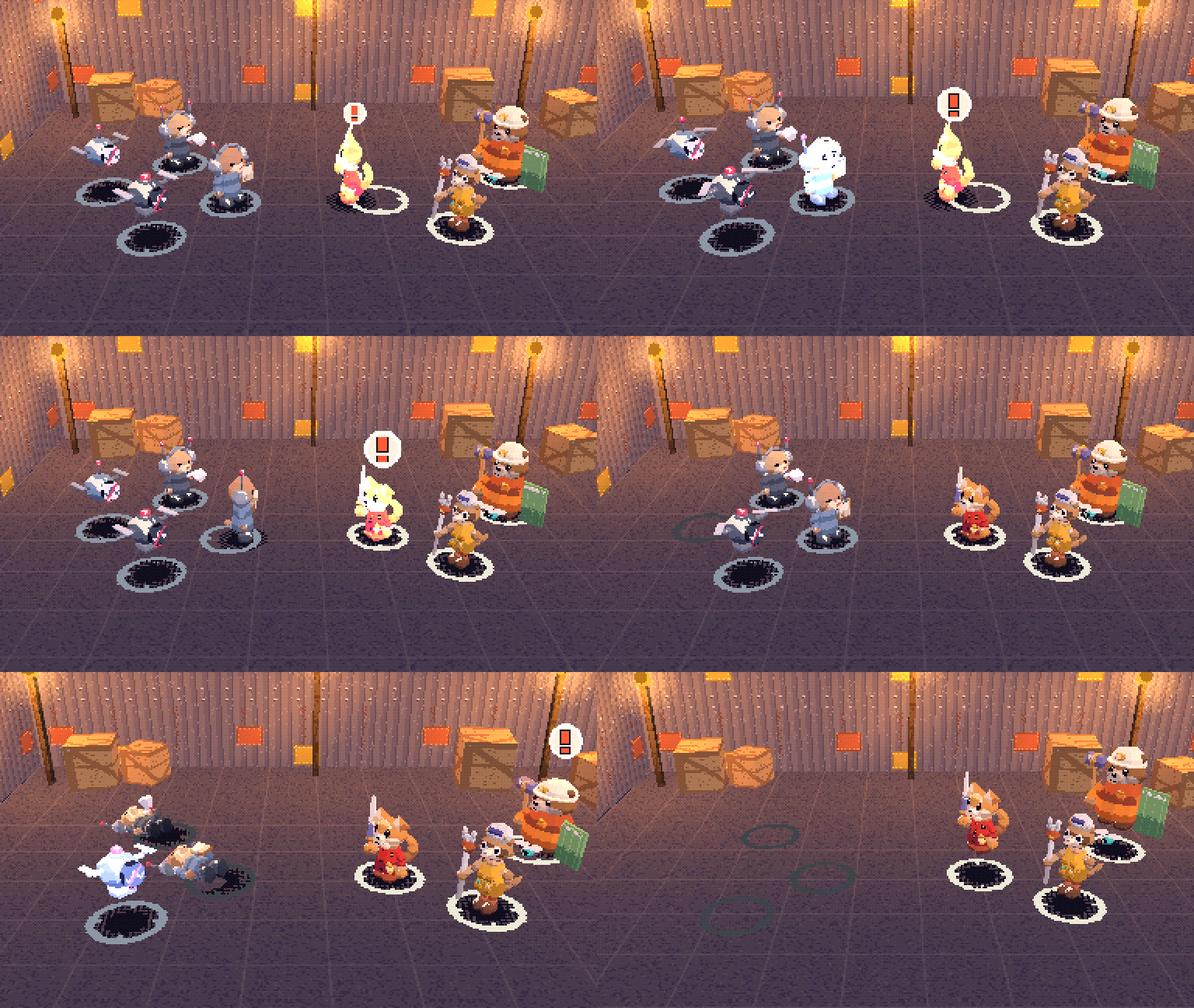
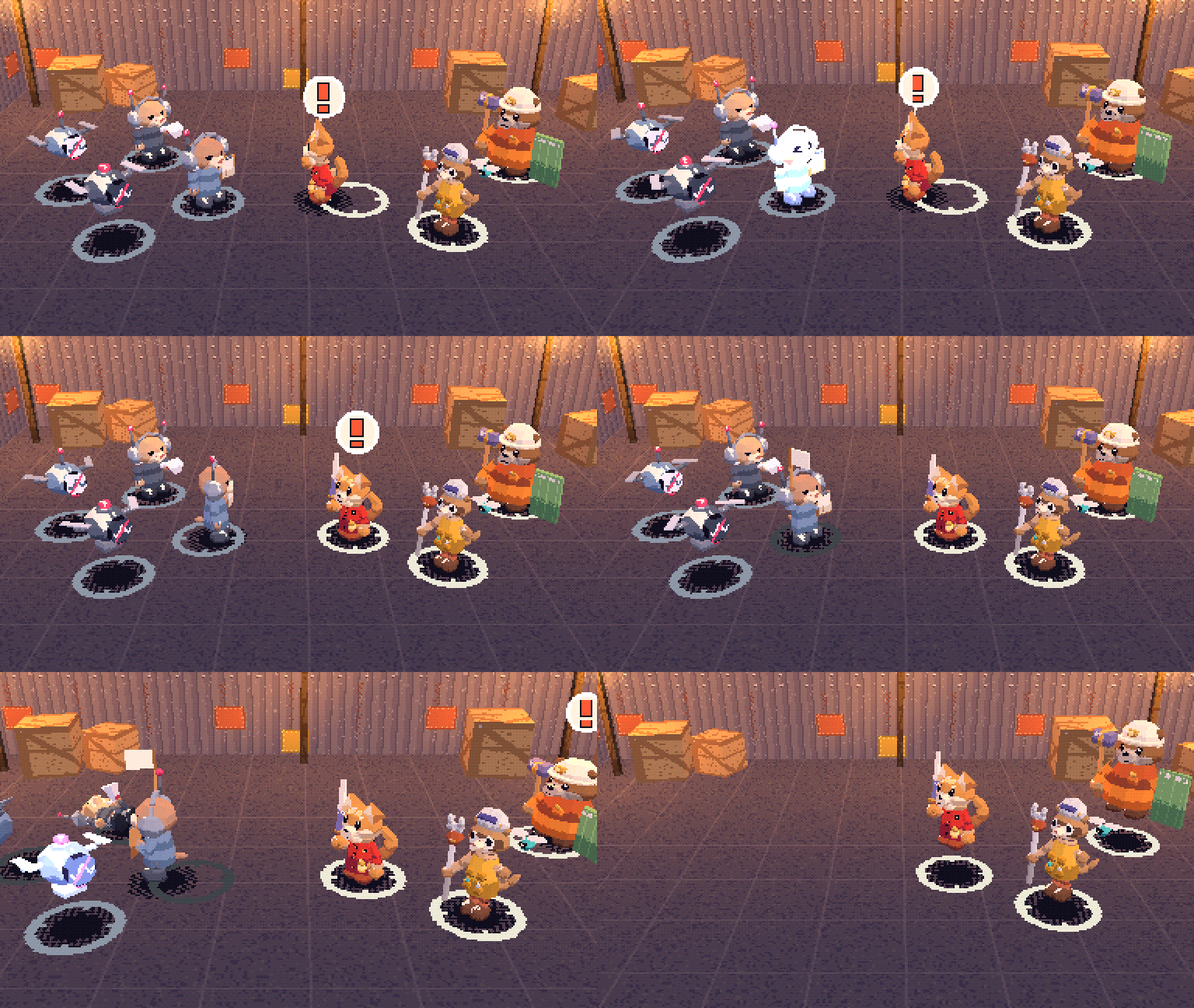
WIP: battle model, simulator report and stage (saved after container restart).
Claude-Session: https://claude.ai/code/session_012jSmZ4BPCmd8jMXHsVXFG6

diff --git a/docs/decisions.md b/docs/decisions.md
@@ -5,6 +5,19 @@
 
 | Date | Decision | Options considered | Why |
 |---|---|---|---|
+| 2026-10-06 | **Battle data and rules: the Clutch numbers.** Windows (half-widths): Nice 125 ms, Rad 80 ms, TOTALLY RAD 50 ms (about 1/4 s and 1/10 s wide); a press only listens 400 ms before its cue; Wide Windows x1.5, Defending-block x1.25. Attack bonus x1.1 / x1.25 / x1.4 for Nice / Rad / TOTALLY RAD; block takes 25% / 50% / 100% less; Payback is 0.8 of a basic hit. A hold-and-release must start by its `hold_by_ms` (a deadline, 400 ms window before it) and is judged on the release; a string cue is judged on its own; the first press in a window is the one judged, so mashing earns nothing. All of it lives in timing_windows.json and formulas.json. | Bonus x1.5 for perfect (the first draft) / x1.4 / x1.3 | x1.4 keeps timing worth chasing without making a never-pressing player feel punished; in the simulator a perfect player finishes fights about 1.7x to 3x faster than one who never presses. |
+| 2026-10-06 | **Juice economy.** A Rad gives +1 Juice, TOTALLY RAD +2 (per press); a good block (Rad or better) gives the defender +1; Defend gives +3. Skills cost 3 to 10. First draft (2/4) let a good player cast the signature move every turn forever, so it was halved. | Rad 2 / TOTALLY RAD 4 (tech plan placeholder) / Rad 1 / TOTALLY RAD 2 | Juice should be a pool you spend and top up, not a faucet; fights now mix skills and plain hits. |
+| 2026-10-06 | **Porch Light's "blind" is Wobbly; Heave-Ho's "stun" is a new one-turn status, `stunned`.** Answers the Technical Director's open question without adding more statuses than the slice list: a blinded enemy swings at a random target (friends included), which is exactly what Wobbly already does. `stunned` skips one turn (the task allowed it). Odds: Porch Light's tap blinds 60% on Nice, 85% Rad, 100% TOTALLY RAD (Luck shifts them); Heave-Ho stuns both enemies on a perfect release. | New Blind status / Wobbly stands in for Blind / drop the bonus | No new mechanic to approve; reads clearly as a lamp flash. |
+| 2026-10-06 | **The nine slice skills (names are mine).** Red: Porch Light (signature, 8 Juice), Double Swing (4, string of 2 taps), Sunrise Slash (6, hold-release, learned level 4). Otis: Heave-Ho (8), Door Slam (3, tap), Cough Drop (4, heals a friend, learned level 4). Mox: Patent Pending (10), Pocket Sparkler (5, hold-release, hits everyone), Duct Tape (4, heal, learned level 4). Each starts with 2 and learns the third at level 4, using only tap / hold-and-release / string. | Other names and press types | Matches the character sheets (Red's swings and flares, Otis's door and hugs, Mox's gadgets) and uses all three press types. |
+| 2026-10-06 | **Patent Pending is a slot wheel with four tiers.** The timing picks the tier (miss, Nice, Rad, TOTALLY RAD) and the model draws a gadget from that tier by weight; TOTALLY RAD has exactly one result, the amazing one (The Mox-O-Matic 9000: hits every enemy and heals the party), so it always lands. Lower tiers: Fizzle, Tuesday Bonks It (miss); Zappy Thing, Sticky Foam (Nice); Heat Lamp Cannon, Mega Magnet, Warm Soup Dispenser (Rad). A miss still does a little damage. | Random wheel with timing as a bias / timing picks the tier | Matches 'TOTALLY RAD always lands the amazing one' and is easy to read and to test. |
+| 2026-10-06 | **Four enemy types.** Signals Grunt (Clipboard Bonk, Noise Ticket), Signals Drone (Static Zap, Twin Zap string, Dive Bomb when hurt), and two variants named for Ross's taste: **Whistle Blower** (grunt variant: Whistle Smack, Ear-Splitting Whistle that makes you Wobbly) and **Buzzkill** (drone variant: fast, Buzz Sting, Pile-On Buzz string of 3). Every attack has a fixed wind-up (the tell, written in skills.json) and a block press. Creative Director to check names. | Other names (Quota Corporal, Spark Plug) | Loud and goofy, short, and they pun on the Signals Corps (noise tickets, whistles). |
+| 2026-10-06 | **White-flag enemies pay out.** A grunt at or under its flee percent (Signals Grunt 25%, Whistle Blower 20%) waves a white flag and leaves on its turn. It still gives its full XP and credits, but no item drop (it took the loot with it). Bosses never flee. No K.O. freeze when the last enemy leaves that way. | No reward for fleers / full reward / reward without drops | Surrender should not punish the player for winning; no drop keeps killing slightly better. |
+| 2026-10-06 | **After a win, a Down fighter stands back up at 10% HP** (data: formulas rewards.after_win_revive_pct; set 0 for the classic stay-down). Down fighters still get full XP. All four statuses clear at the end of a battle. Burnt Toast can't knock anyone out (it stops at 1 HP). | Stay Down until healed (classic) / stand up | Nobody should start the next walk with a friend at 0 HP and no Smelling Salts; one data number flips it. |
+| 2026-10-06 | **Run, Defend and items.** Run chance = 0.55 + 0.04 per point of average party Speed over the enemies' (25% to 95%); a failed Run costs the turn; it is refused outright when can_run is false or the fight is a boss. Smoke Bomb always works but obeys the same rule. Defend halves damage, widens block windows x1.25 and gives +3 Juice until the defender's next turn. Battle-only item effects live in battle/battle_items.json (Ration Bar 30 HP, Can of Chili 70, Canned Coffee 6 Juice, Juice Box 14, Smelling Salts revive at 25%, Burn Gel, Appeal Form, Ginger Chews, Firecracker String, Hot Sauce Bomb, Smoke Bomb); items.json was left alone. | Edit items.json / separate battle file | items.json belongs to the equipment work; ids match so the two merge later. |
+| 2026-10-06 | **Party stats and XP curve for levels 1 to 6** in game/data/party/: Red quick and balanced (HP 40 to 76, Speed 9 to 11), Otis the tank (HP 62 to 115, Speed 4 to 6), Mox the gadget wildcard (Heart 10 to 20, Juice 18 to 33). Total XP to reach levels 2 to 6: 35, 90, 190, 350, 560. Bench XP (full share) and late-joiner catch-up are built and tested but switched off in characters.json. | A slower or faster curve | Tuned with the simulator walkthrough: 14 slice fights end at level 6. |
+| 2026-10-06 | **Enemy numbers and encounters.** Five test encounters: grunt_solo (1), grunt_pair (2), drone_flock (3), squad_four (4) and ambush_no_exit (3, tougher via `enemy_scale`, can_run false). Each has a tier (tutorial, regular, tough) that picks its feel target; an encounter can scale its enemies' stats in data, so a tougher fight needs no new enemy. Enemy credits are set so slice battles pay about 1,000 credits by Kasp; the rest of the 1,500 comes from crates and side jobs. | Separate stronger enemies for tough fights | Fewer enemy types to draw and name; one data field makes any fight harder. |
+| 2026-10-06 | **Feel targets (feel_targets.json).** Fight time = timeline ms plus 2 s per party command. Tutorial fights 25 to 90 s, regular 60 to 180 s, tough 90 to 240 s, boss 300 to 480 s. Win-rate bands per player and tier: perfect >= 97%, good >= 85%, Auto-Timing >= 70%, never-pressing >= 30% on regular fights and >= 80% on tutorial fights. Perfect play must beat never-pressing by at least 10% in wins or fight time. The simulator's 'good' player is a 40 ms spread with an 8% chance to skip a press. | Looser bands | Matches Ross's 'regular fight 1 to 3 minutes' and the design's 'perfect play feels strong'. |
+| 2026-10-06 | **Contract additions (all backward compatible, listed under Changes in docs/battle_api.md):** abort(), get_result(), skill_result signal, setup.bag / bench / first_turn / game_state / data, press and action extras (owner_id, pressed, impacts, scrambled, shown_cue_ms, window_ms), hit.status for status ticks, items[].usable and the one_down_ally target. GameState gained credits (get_credits / add_credits), update_member and a credits / member_state block in to_dict (old saves still load). | Wait for the integrator | Everything was needed to build the model and the writeback; nothing was renamed. |
 | 2026-10-06 | **Battle HUD studio calls (Menus Level 2):** HUD drawn on the 384×216 UI stage like the field menu; command window left, skills/items list opens beside it with a reason line for greyed rows (Noise Ticket > not enough Juice > none left > can't run); menu slides away during moves and targeting; targeting hops to the nearest fighter in the pressed direction, allies offered only for ally moves; cursor memory per fighter for the whole fight; turn-order row top centre (placeholder initials heads), party panel along the bottom; rating letters in style-guide colours (TOTALLY RAD! cycles and bounces), miss shows nothing, Payback! pops over the enemy; K.O.! once per fight with a white flash; victory screen counts XP, credits, drops, then level-up cards, first press skips, presses in the first 0.4 s ignored; Game Over in chalk with Retry (stub) / Back to title; Config gains Wide Windows (on/off) and Timing Offset (−200 to +200 ms in steps of 10). | Studio's calls (UI Programmer) | Ross can overturn any. |
 | 2026-10-06 | **Studio call (Level 1): the Clutch button** is its own input action `clutch` = Space, Z, E, Enter / controller A (the south button, like the classic timed-hit games). Menus keep confirm/cancel. Battle work split across Battle Programmer (model + simulator), Technical Artist (stage + enemy blockouts), UI Programmer (HUD) and Audio Designer (placeholder SFX) under a shared contract, docs/battle_api.md. | Studio's call | Ross can overturn. |
 | 2026-10-06 | **Art stays in-house for now (A).** Claude Code keeps making placeholder/blockout art; Ross makes the final art (CLAUDE.md rule unchanged). The fal.ai/Higgsfield AI pipeline is shelved, not rejected; it can be revisited later. **And: build the battle system; no questions to Ross until there's a Godot build he can run.** The studio makes and logs its own calls until then. | **A in-house** / B hybrid AI via fal.ai (studio recommended) / C human outsourcing | Ross: "keep the art in house for now / build out the battle system, dont ask me again until you have a godot project file for me to execute" |

diff --git a/docs/battle_api.md b/docs/battle_api.md
@@ -112,3 +112,50 @@ Timing rule: the model judges presses only from `press_down`/`press_up` timestam
 **Config (new settings the model already reads).** `Config` now holds `auto_timing`, `wide_windows` and `timing_offset_ms` (clamped to the range in `battle_ui.json` "settings": -200..200 in steps of 10). `Config.get_battle_timing()` returns `{auto_timing, wide_windows, timing_offset_ms}` for a `BattleSetup`. The field menu's Config page has rows for all three. Old settings files without the new keys load fine.
 
 **Input.** While the command menu is open the HUD consumes `move_*`, `confirm` and `cancel` (and the mouse: hover moves, left click picks, right click backs out). While the victory screen is up, confirm, cancel, `clutch` or a left click skip the counting (first press) and then leave (second press); presses in the first 0.4 s are ignored so the Clutch press that landed the last hit cannot skip it. At any other time the HUD does not touch input, so Clutch always reaches the stage.
+
+## Changes
+> Added by the Battle Programmer (M2). Everything below only **adds** to the contract above; nothing was renamed or removed. Code: `game/scripts/battle/model/`, data: `game/data/battle/` and `game/data/party/`.
+
+### Using the model (for the stage, HUD and integrator)
+- Build a setup, create the controller, connect the signals, then call `start()`:
+  ```gdscript
+  var setup: BattleSetup = BattleSetup.from_game_state(GameState, "squad_four", Config, first_turn)  # first_turn: "normal" / "party" / "enemies"
+  var controller: BattleController = BattleController.create(setup)
+  # connect signals, then:
+  controller.start()   # a coroutine: it returns control to the engine while it waits on the real clock
+  ```
+- **Press timestamps use `Time.get_ticks_usec()`** (the same clock as `RealClock`). The view calls `controller.press_down(Time.get_ticks_usec())` in `_input` on the `clutch` action's press, and `press_up(...)` on its release. `t_usec` is the time the event happened, not when the signal is handled; the judge only reads these stamps.
+- The model emits `press_judged` as soon as the answer is known (at the press, or at the end of the window for a miss), so the pop-up lands with the press.
+- If `setup.game_state` is set, a win or an escape writes level, xp, hp, juice, bag items and credits into it before `battle_ended` fires. A loss writes nothing (Retry restores the snapshot taken before the fight).
+- `controller.get_result()` after the end returns `{result, report, party: [member states], bench, bag, items_used, rounds, party_commands, elapsed_usec}`.
+
+### Setup (`BattleSetup`)
+- Added fields: `bag: Dictionary` (item id -> count), `bench: Array[Dictionary]`, `first_turn: String` ("normal" / "party" / "enemies"; round 1 only), `game_state: Node` (optional write-back), `data: BattleData` (defaults to `BattleData.shared()`).
+- `BattleSetup.from_game_state(state, encounter_id, config = null, first_turn = "normal")` fills everything from the `GameState` autoload: real clock, human presses, a random seed (`rng_seed = BattleSetup.RANDOM_SEED = -1`). It reads `auto_timing`, `wide_windows` and `timing_offset_ms` from the `Config` object you pass (missing properties count as off / 0).
+- `command_source` is any object with `choose_command(controller, actor_id, options) -> Dictionary`.
+- Party member dictionaries: `{id, level, xp?, hp?, juice?, statuses?, bonus?}`. A missing hp or juice means full. The party's maximums come from `data/party/growth.csv` at that level, not from `party.json`.
+
+### Controller
+- `abort()`: stops the fight where it is (quit to title). No `battle_ended`, no rewards; `result` becomes `"aborted"`.
+- `get_result()` as above. Public read-only fields: `state` (`BattleState`), `result`, `report`, `round_number`, `is_over`, `party_commands`.
+- `skip_requested()` is implemented: end-of-action pauses shrink to zero (press windows never do).
+- `submit_command` with nothing pending is ignored. An invalid command gets a `message` ("Not enough Juice!", "Noise Ticket! No skills.", "Can't run from this one!", "Pick a target.", "None left.") and `command_needed` fires again for the same fighter.
+
+### Signals and payloads
+- **New signal `skill_result(info)`**: `{actor, skill_id, tier, result_id, name}` when Patent Pending's wheel lands (also announced with `message("<name>!")`).
+- **`press_judged`** also carries `owner_id` (who gets the pop-up and the "!": the attacker for attack presses, **the defender for block presses**) and `pressed: bool` (false = nothing was pressed in the window). `actor` is the fighter whose action it is, the same as in `action_started`. `delta_ms` is signed (negative = early) and 0.0 when nothing was pressed.
+- **`action_started`** extras: `tell` (text), `contact` ("melee"/"ranged"); `timeline_ms.impacts: [ms, ...]` (every effect moment; `impact` is the first); each press entry gets `window_ms: {nice, rad, totally_rad}` (half-widths after modifiers), `scrambled: bool` and, when scrambled, `shown_cue_ms` (the view flashes at `shown_cue_ms`; the judge always uses the real `cue_ms`).
+- **Press semantics.** `cue_ms` and `hold_by_ms` are milliseconds from `t0_usec`. `hold_by_ms` is the **latest moment the button may go down** for a hold-and-release; the hold window opens 400 ms before it and the release is judged against `cue_ms`. A press only counts inside its window (400 ms before the cue to the end of the Nice window); the first press in that window is the one judged. The view should show the "hold now" prompt a little before `hold_by_ms`. Taps in a `string` are separate presses with their own `index`. Disabled presses (a block press with no party member to press it, e.g. an enemy hitting an enemy) are left out of `presses`.
+- **`hit`**: damage over time from statuses sends `source: ""` and `status: "<status id>"`. A Payback is its own `hit` with `payback: true` (source = the defender, target = the attacker); the blocked hit before it has `blocked: "perfect"`. A heal is `kind: "heal"` (only the HP actually restored).
+- **`command_needed` options**: each `items` entry also has `usable: bool`; item `target` values are `one_ally`, `one_down_ally` (revives), `one_enemy`, `all_enemies`, `self`. Skill `target` values: `one_enemy`, `all_enemies`, `one_ally`, `all_allies`, `self`. The `skills` list holds every skill the fighter knows (usable or not).
+- **`snapshot()`** adds `music` and `round` at the top level, and `fled` and `defending` on each combatant. Enemy ids are `e1` to `e4` in encounter order; party ids are the character ids.
+- **`battle_ended` report**: `level_ups` covers every fighter who climbed; `final_ko_target` is `""` when the last enemy surrendered (white flag) or on a run. Enemies that wave a white flag leave with `combatant_fled(id)` after a `message("<name> waves a white flag and leaves!")`; they still give XP and credits.
+- Statuses end when the battle does; a Down fighter stands back up with 10% HP after a win (`formulas.json` `rewards.after_win_revive_pct`).
+
+### Data the stage and HUD can read
+- `data/battle/encounters.json` ids: `grunt_solo`, `grunt_pair`, `drone_flock`, `squad_four`, `ambush_no_exit` (can_run false). Backdrop ids in use: `harrow_docks`, `relay_tower_floor`. Music ids: `battle_regular`, `battle_tough` (placeholders).
+- Enemy model paths are `res://art/placeholder/enemies/<enemy id>.glb` (`signals_grunt`, `signals_drone`, `whistle_blower`, `buzzkill_drone`); party models are the existing placeholder `.glb` files.
+- Skill, item and status names and descriptions: `data/battle/skills.json`, `battle_items.json`, `statuses.json`.
+
+### Shared files touched
+- `GameState` (shared, additive): `get_credits()`, `add_credits(n)`, `update_member(id, fields)`; `to_dict()` also writes `credits` and `member_state` (older saves without them still load).

diff --git a/docs/battle_sim_report.md b/docs/battle_sim_report.md
@@ -1,0 +1,74 @@
+# Battle simulator report (first tuning pass)
+
+> Battle Programmer, Milestone 2 (M2-9). The simulator plays the real battle model (the same `BattleController` the game uses) on a virtual clock with no view, as four kinds of player, thousands of times. Numbers below are the full **5,000 fights per encounter and player** (seed 1; fight *i* uses seed 1+*i*, so any row can be replayed). The suite itself runs 200 per check.
+
+## How to run it
+```
+godot --headless --path game -s res://tests/sim/run_sim.gd -- --encounter=squad_four --player=good --runs=1000 --seed=1
+godot --headless --path game -s res://tests/sim/run_sim.gd -- --runs=200 --check --walkthrough
+```
+Options: `--encounter=ID|all`, `--player=perfect|good|miss|auto|all`, `--runs=N`, `--seed=N`, `--level=N` (default: each encounter's `suggested_level`), `--walkthrough`, `--check` (exit code 1 when anything misses `feel_targets.json`), `--markdown`. The full 5,000-run table takes about 10 minutes; 200 runs about 20 seconds.
+
+## The players
+| Player | What it does |
+|---|---|
+| **perfect** | Presses exactly on every cue (attack and block, taps, holds, strings). |
+| **good** | Presses with a normal spread of 40 ms around each cue, and skips 8% of presses (a lapse of attention). |
+| **miss** | Never presses. Normal hit, normal hurt. |
+| **auto** | Auto-Timing: every press lands as Rad. |
+
+All four use the same command policy (from the tech plan): attack the weakest enemy, heal anyone under 40% HP (Can of Chili if 60+ HP is missing, else Ration Bar, else a heal skill), revive a Down friend with Smelling Salts, and use the signature move whenever Juice allows. Start kit: 4 Ration Bars, 1 Can of Chili, 2 Canned Coffee, 1 Smelling Salts, 1 Burn Gel. **Fight time = virtual-clock timeline ms + 2 s of menu time per party command.**
+
+## Results (5,000 runs each)
+| Encounter | Level | Player | Win rate | Mean s | p10 s | p50 s | p90 s | Rounds | HP left (wins) | XP | Credits |
+|---|---|---|---|---|---|---|---|---|---|---|---|
+| grunt_solo | 1 | perfect | 100.0% | 34 | 34 | 34 | 34 | 3.0 | 100% | 14 | 21 |
+| grunt_solo | 1 | good | 100.0% | 37 | 34 | 34 | 45 | 3.3 | 99% | 14 | 21 |
+| grunt_solo | 1 | auto | 100.0% | 47 | 45 | 46 | 57 | 4.1 | 92% | 14 | 21 |
+| grunt_solo | 1 | miss | 100.0% | 59 | 55 | 55 | 66 | 5.3 | 79% | 14 | 21 |
+| grunt_pair | 2 | perfect | 100.0% | 48 | 44 | 48 | 50 | 4.0 | 100% | 28 | 42 |
+| grunt_pair | 2 | good | 100.0% | 57 | 48 | 60 | 63 | 4.7 | 98% | 28 | 42 |
+| grunt_pair | 2 | auto | 100.0% | 79 | 73 | 74 | 88 | 6.4 | 84% | 28 | 42 |
+| grunt_pair | 2 | miss | 100.0% | 112 | 106 | 108 | 119 | 9.4 | 70% | 28 | 42 |
+| drone_flock | 3 | perfect | 100.0% | 66 | 64 | 66 | 67 | 5.0 | 100% | 50 | 76 |
+| drone_flock | 3 | good | 100.0% | 77 | 65 | 77 | 89 | 6.0 | 96% | 50 | 76 |
+| drone_flock | 3 | auto | 100.0% | 117 | 102 | 115 | 132 | 9.1 | 74% | 50 | 76 |
+| drone_flock | 3 | miss | 94.0% | 178 | 168 | 175 | 190 | 14.9 | 42% | 50 | 76 |
+| squad_four | 4 | perfect | 100.0% | 74 | 69 | 74 | 78 | 5.1 | 100% | 66 | 98 |
+| squad_four | 4 | good | 100.0% | 87 | 74 | 86 | 103 | 6.1 | 96% | 66 | 98 |
+| squad_four | 4 | auto | 100.0% | 146 | 130 | 145 | 159 | 10.2 | 75% | 66 | 98 |
+| squad_four | 4 | miss | 54.1% | 216 | 176 | 227 | 240 | 17.4 | 24% | 66 | 98 |
+| ambush_no_exit | 4 | perfect | 100.0% | 92 | 87 | 93 | 95 | 6.9 | 100% | 68 | 98 |
+| ambush_no_exit | 4 | good | 100.0% | 112 | 95 | 110 | 130 | 8.4 | 94% | 68 | 98 |
+| ambush_no_exit | 4 | auto | 100.0% | 190 | 161 | 188 | 218 | 14.3 | 72% | 68 | 98 |
+| ambush_no_exit | 4 | miss | 0.0% | 93 | 71 | 94 | 112 | 7.3 | 0% | 0 | 0 |
+
+(The miss row of the last fight shows how long the party lasts before game over.) Encounters: `grunt_solo` 1 Signals Grunt; `grunt_pair` 2 grunts; `drone_flock` 2 Signals Drones + Whistle Blower; `squad_four` 2 grunts + Signals Drone + Buzzkill (4 enemies, enemy HP x1.2); `ambush_no_exit` 2 Whistle Blowers + Buzzkill, enemy HP x1.3 and attack x1.5, **can't run**.
+
+### Walkthrough (the 14 slice fights in order, party healed and bag restocked between fights, 100 runs each)
+| Player | Finished | Final level | Credits from battles | Fights fought (mean) |
+|---|---|---|---|---|
+| perfect | 100% | 6.0 | 1,017 | 14.0 |
+| good | 100% | 6.0 | 1,017 | 14.0 |
+| auto | 100% | 6.0 | 1,017 | 14.0 |
+| miss | 0% | n/a | n/a | 8.2 (loses around the first Full Signals Squad, fight 7 to 9) |
+
+## Against the feel targets (`data/battle/feel_targets.json`)
+`--check` passes: **every row is inside its bands.**
+- **Fight length.** Regular fights 60 to 180 s: good play lands 77 to 87 s, Auto-Timing 117 to 146 s, perfect 66 to 74 s. Tutorial fights (25 to 90 s): 34 to 79 s. The tough ambush (90 to 240 s): 92 s perfect, 112 s good, 190 s Auto-Timing. Never-pressing runs longer (up to about 3.5 min on the squad fight), which is allowed.
+- **Win rates.** Perfect 100% everywhere (needs 97%+ regular, 90%+ tough). Good 100% (needs 85%+, 80%+). Auto-Timing 100% (needs 70%+, 50%+). The miss player wins the easy fights (100%; needs 80%+), wins 94% of the drone flock and 54% of the squad fight (needs 30%+ for regular fights) and cannot beat the ambush (needs 60% or less).
+- **Perfect play feels strong.** Against never pressing, perfect play finishes fights 1.7x to 2.9x faster and finishes with far more HP; the check wants at least 10% on wins or time.
+- **Slice progress.** The 14-fight walkthrough ends at level 6 (the target at Kasp) with about 1,017 credits from battles; the rest of the 1,500 is crates and side jobs (Economy section).
+
+## What I tuned, and why
+1. **Enemy HP.** The first draft killed a Signals Squad in 2 rounds (25 s). Enemy HP is now about 2.4x the first draft (grunt 46 -> 112): a basic hit is roughly a tenth of a grunt, so fights need several rounds.
+2. **Rating bonus** x1.5 -> x1.4 for TOTALLY RAD (Nice x1.1, Rad x1.25) and **Juice refund** halved (Rad +1, TOTALLY RAD +2). With the draft values a good player cast their signature every turn.
+3. **Enemy damage** up about 40% since the first draft (grunt attack 9 -> 13) so never-pressing is a real handicap; the ambush gets a per-encounter `enemy_scale` (HP x1.3, attack x1.5) instead of new enemy types.
+4. **XP and credits.** XP curve 0 / 35 / 90 / 190 / 350 / 560 puts level 6 at fight 13 of 14; enemy credits cut about 30% so battles pay about 1,000 of the 1,500.
+5. The **good** player got an 8% lapse chance: with a pure 40 ms spread nobody ever lost a fight.
+
+## Things to know, and open questions (none block the build)
+- **Skilled players take almost no damage** (94 to 99% HP left). A Perfect Block takes it all by design, so fights are won on length, not danger. If Ross wants good play to feel riskier, the knobs are `block_reduction` in timing_windows.json and enemy `attack` in enemies.json; a "casual" player (70 to 80 ms spread) would be the next simulator player to add.
+- **The never-pressing player can't finish the slice** with this simple policy (it dies around fight 8 with no Defend and no shopping). Real players who skip Clutch will do better (Defend halves damage and widens windows), but if the slice should be finishable without pressing, soften enemy `attack` by about 15% or add a heal item to the start kit.
+- **The XP curve and enemy lists are test content.** Real placements come with Milestone 3 (the walkthrough order lives in feel_targets.json and is easy to change). Kasp needs his own tier ("boss": 300 to 480 s is already in the targets) and the cue-scramble pulse; the model already supports a scrambled cue (`shown_cue_ms`) and boss flags.
+- Fight time counts 2 s of menu per command as agreed; the HUD's real menu time will move these numbers (about +-20%).

diff --git a/docs/studio_log.md b/docs/studio_log.md
@@ -4,6 +4,7 @@
 
 ## 2026-10-06
 
+- **Battle model built (Battle Programmer, M2-1 to M2-6 and M2-9):** the whole fight runs headless: turn order, Attack / Skills / Items / Defend / Run, Clutch judged by timestamps (tap, hold-and-release, string; Auto-Timing, Wide Windows, timing offset), Payback, the nine slice skills (Patent Pending is a slot wheel), Burnt Toast / Noise Ticket / Wobbly / Stunned / Down for the Count, four Signals enemies with tells (Signals Grunt, Signals Drone, Whistle Blower, Buzzkill), rewards, level-ups and the write-back into GameState. All numbers live in game/data/battle and game/data/party. A simulator plays thousands of fights as perfect / good / miss / Auto-Timing players; first tuning puts regular fights at about 1 to 2 minutes. Contract additions are at the bottom of docs/battle_api.md; the calls are in docs/decisions.md; results in docs/battle_sim_report.md.
 - **Battle HUD built (M2-7, UI Programmer):** command list (Attack, Skills with Juice costs and greyed reasons, Items with counts, Defend, Run), a target pointer that follows the stage's fighters (whole side lights up for all-target moves), per-fighter cursor memory, turn-order row (this round and next), party panel with HP / Juice bars, status chips and "Down for the Count", Nice! / Rad! / TOTALLY RAD! / Blocked! / Perfect Block! / Payback! lettering in the style guide colors, damage and heal numbers, the "!" cue, the skill-name slam (Red never says it), battle messages, the K.O.!, a victory screen that counts up fast (one press skips) and a Game Over screen with Retry and Back to title (Retry is a stub signal). Controller, keyboard and mouse. Auto-Timing, Wide Windows and a timing offset are now settings, with rows on the field menu's Config page. Runs against the real controller and the real stage. Screenshots: docs/screenshots/m2_battle_hud_commands.png, m2_battle_hud_ratings.png, m2_battle_victory.png (plus skills, targeting, slam, K.O. and game over). All art is placeholder; the art asks are rows 48-51 in docs/art_requests.md.
 - **Milestone 2 (battle) underway in parallel:** Battle Programmer on the battle rules, Clutch timing, skills, enemies, rewards and the simulator; Technical Artist on the battle stage, camera, static transition and 4 enemy blockouts; UI Programmer on the battle HUD and victory screen; Audio Designer on placeholder battle sounds. Shared contract: docs/battle_api.md. Clutch button added (Space / Z / E / Enter, controller A).
 - **Ross: art stays in-house for now; build the battle system, no questions until there's a build he can run.** Milestone 2 (battle) starting; the studio makes and logs its own calls.
